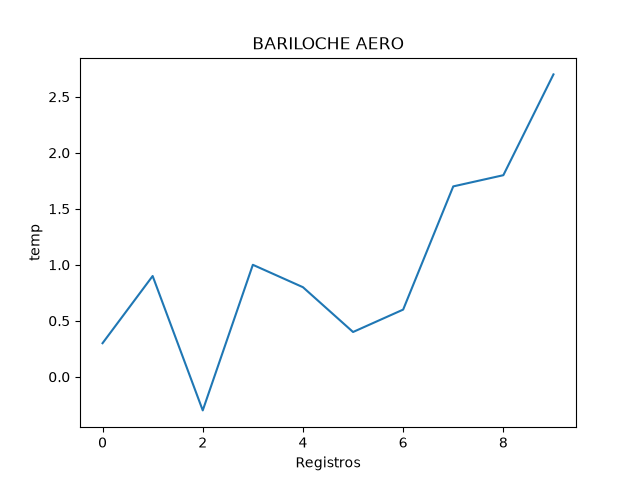
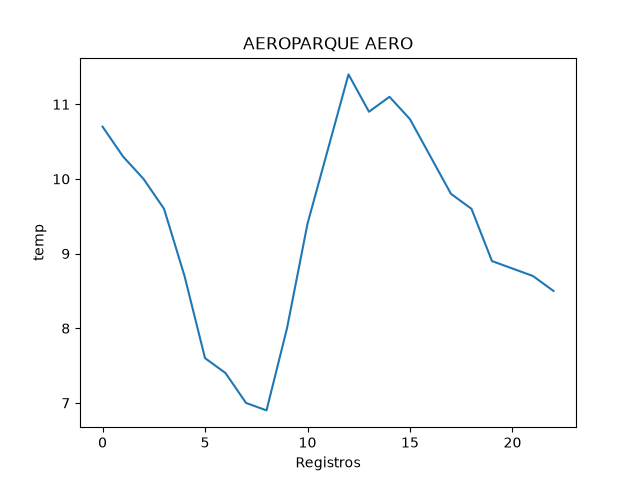
inicio app

diff --git a/app_web/datos_json.py b/app_web/datos_json.py
@@ -5,22 +5,16 @@ def cargar_json(ruta_json):
     with open(ruta_json, "r") as archivo:
         datos = json.load(archivo)
     return datos
-# for clave, valor in datos.items():
-    # for lugar, dato in valor.items():
-    #     if lugar == estacion:
-    #         for lectura in dato:
-    #             if medicion in lectura:
-    #                 resultado.append(lectura[medicion])
 def filtrar_datos(datos, estacion, medicion):
     resultado=[]
     for clave, valor in datos.items():
-        for lugar, dato in valor:
-            if lugar == estacion:
-                for lectura in dato:
-                    if medicion in lectura:
-                        resultado.append(lectura[medicion])
+            if clave == "registros_validos": 
+                for lugar, dato in valor.items():
+                    if lugar == estacion:
+                        for lectura in dato:
+                            if medicion in lectura:
+                                resultado.append(lectura[medicion])
     return(resultado)
-        
 
 datos= {"registros_validos": {
             "AEROPARQUE AERO": [

diff --git a/app_web/app.py b/app_web/app.py
@@ -1,19 +1,13 @@
+import streamlit as st
+import sys
+print(sys.argv)
+import streamlit as st
 
+st.title("Mi primera aplicación")
+st.write("Hola desde Streamlit")
 
-
-
-
-
-
-
-
-
-
-
-
-
-
-
+estacion = st.selectbox("Estacion", ["AEROPARQUE AERO", "AZUL AERO", "BAHIA BLANCA AERO"])
+medicion = st.selectbox("Medicion", ["temp", "humedad", "PNM"])
 
 
 
